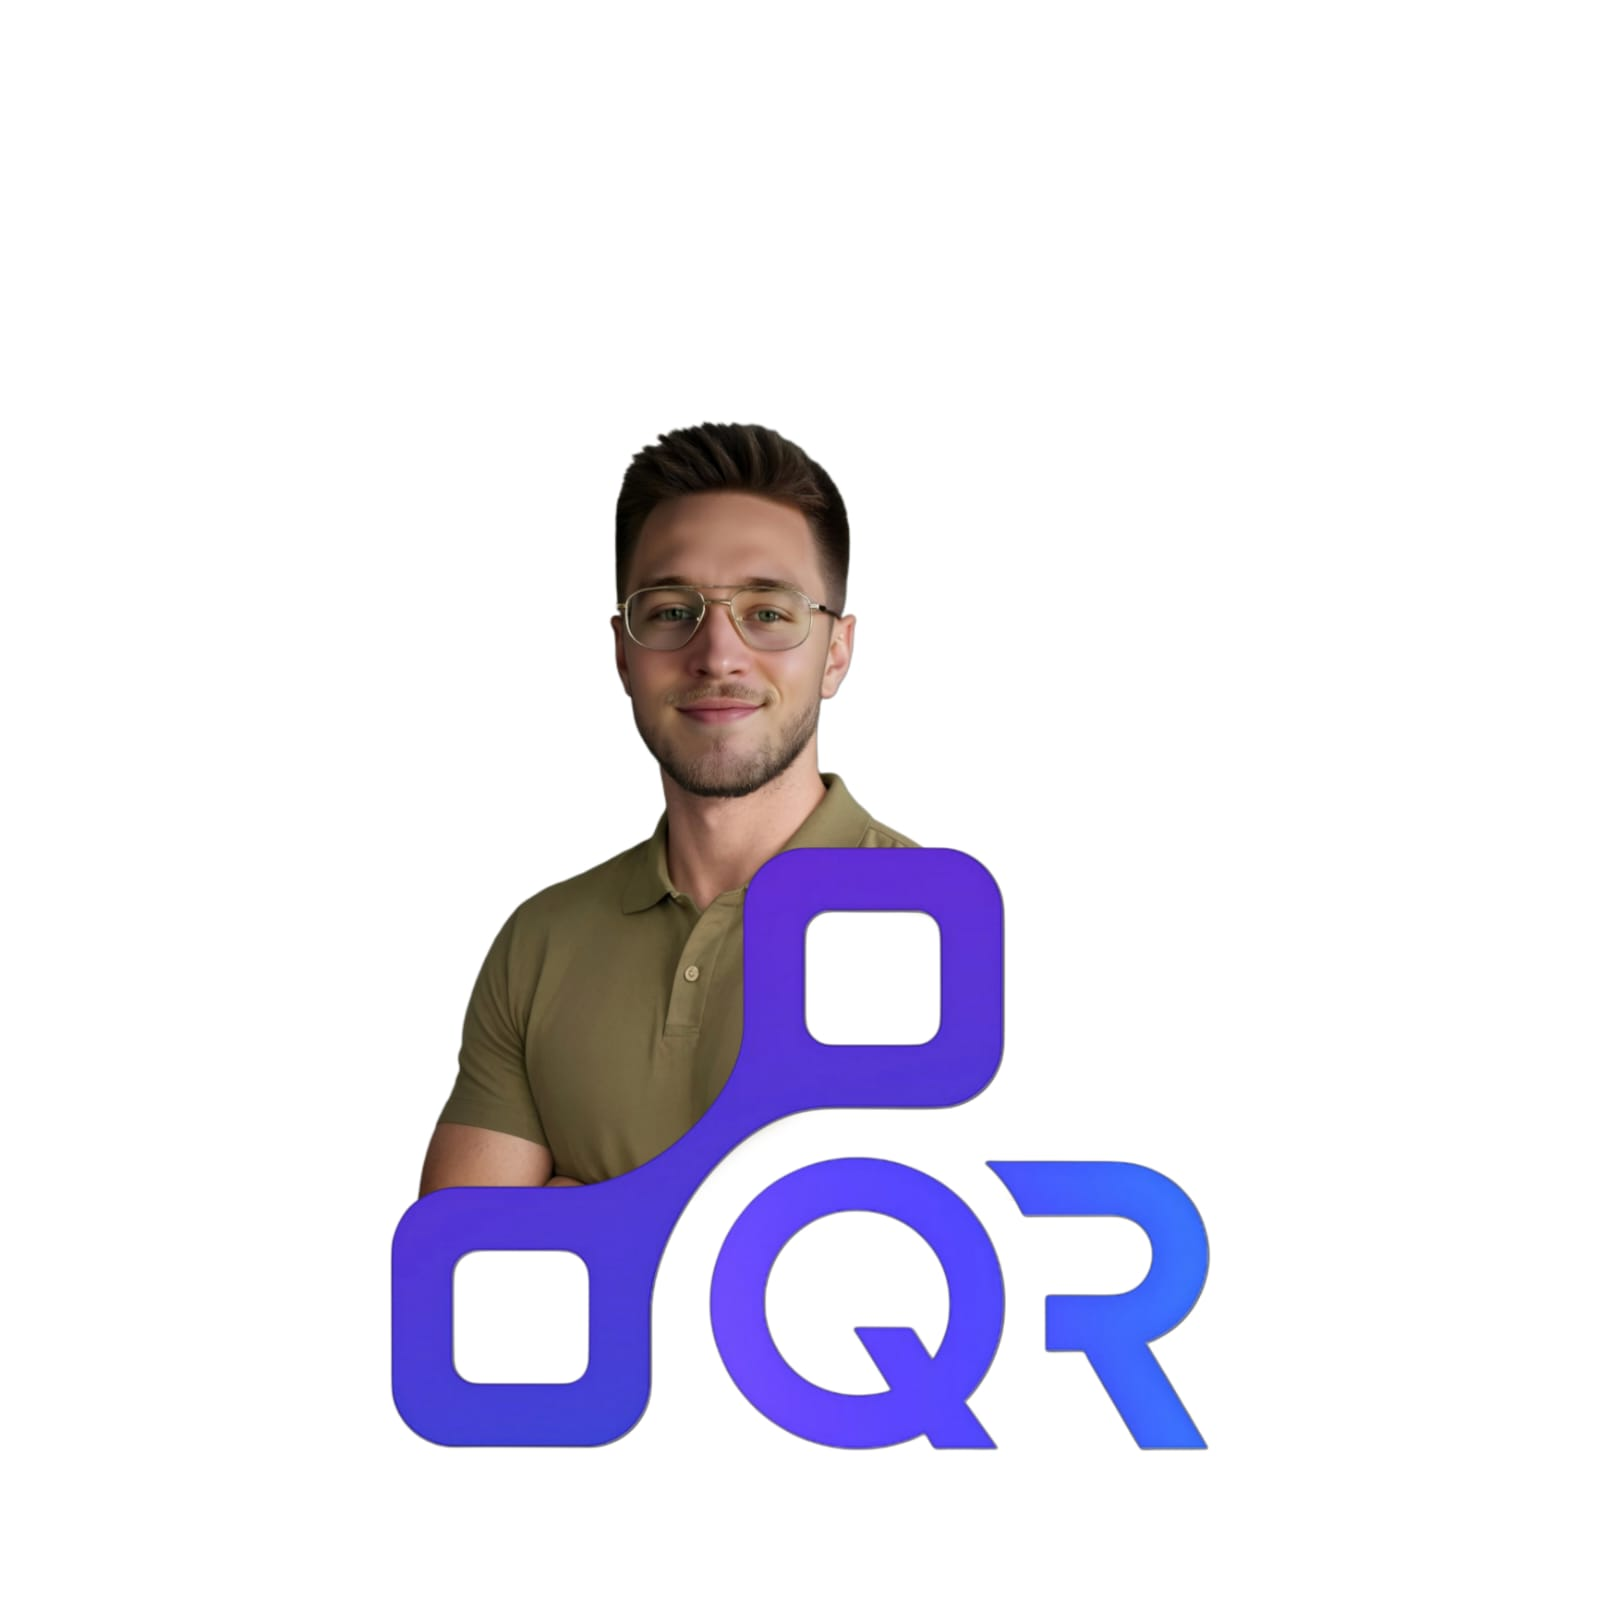
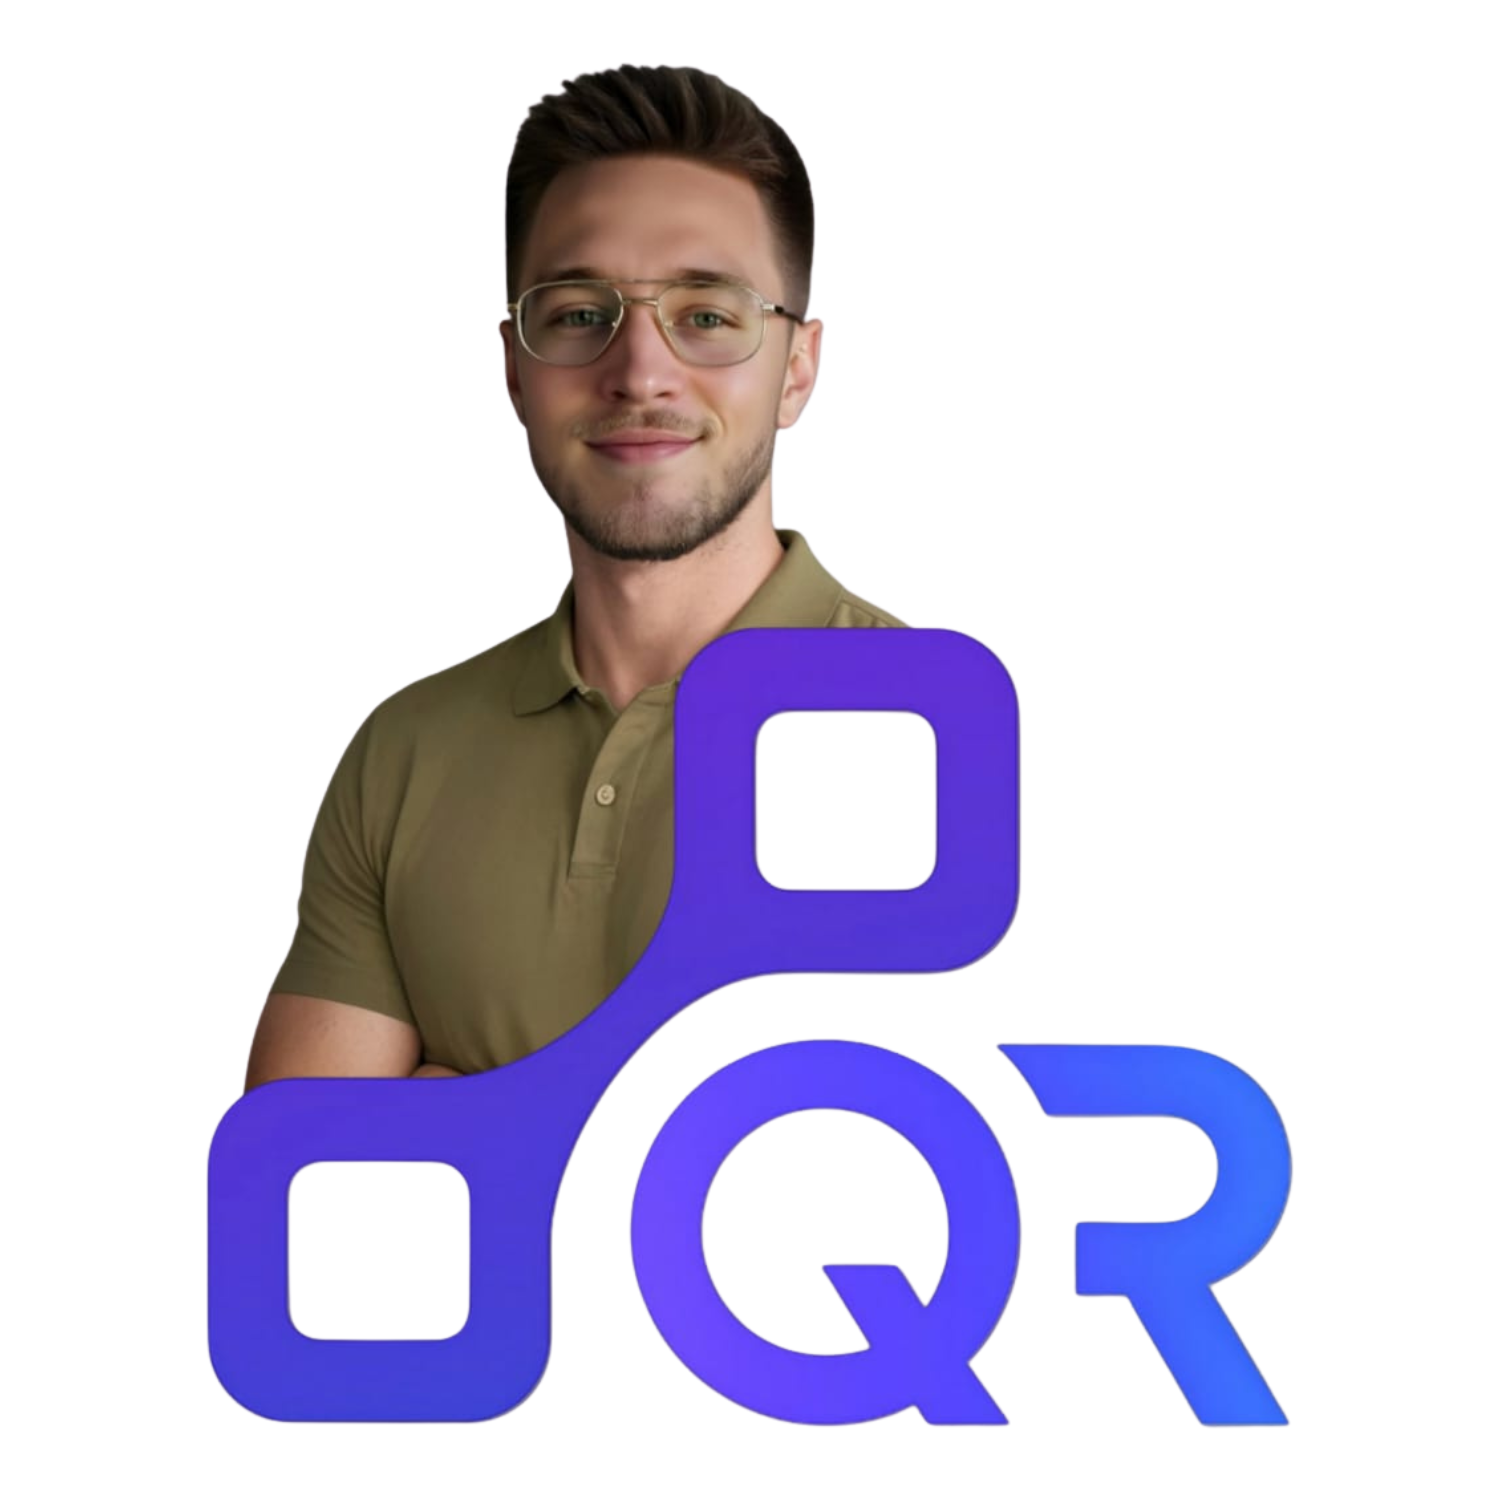
Update landing hero layout replace image and text
Replace hero image with uploaded design, place image on left and new headline on right, keeping existing descriptive text and CTA. Ensure heading sits above the description and aligns with new layout.

Changed region(s): [[0.1227, 0.0307, 0.8587, 0.9507]]

diff --git a/src/pages/Landing.tsx b/src/pages/Landing.tsx
@@ -82,26 +82,6 @@ const Landing = () => {
       {/* Hero Section */}
       <section className="relative z-10 pt-32 pb-20 px-4 sm:px-6 lg:px-8">
         <div className="max-w-7xl mx-auto">
-          <div className="text-center max-w-4xl mx-auto mb-12">
-            <motion.div initial={{
-            opacity: 0,
-            y: 20
-          }} animate={{
-            opacity: 1,
-            y: 0
-          }} transition={{
-            duration: 0.6
-          }}>
-              <h1 className="text-5xl sm:text-6xl lg:text-7xl font-bold mb-8 text-foreground">
-                Mehr Google-Bewertungen.<br />
-                <span className="bg-gradient-primary bg-clip-text text-transparent">
-                  Mehr Erfolg.
-                </span>
-              </h1>
-            </motion.div>
-          </div>
-
-          {/* Image and Text Section */}
           <div className="max-w-6xl mx-auto">
             <motion.div initial={{
             opacity: 0,
@@ -110,16 +90,21 @@ const Landing = () => {
             opacity: 1,
             y: 0
           }} transition={{
-            duration: 0.6,
-            delay: 0.2
-          }} className="grid md:grid-cols-2 gap-8 items-center">
+            duration: 0.6
+          }} className="grid md:grid-cols-2 gap-12 items-center">
               {/* Left: Image */}
-              <div className="flex justify-center md:justify-end">
-                <img src={heroPersonQr} alt="QRait Marketing System" className="w-full max-w-md h-auto rounded-lg" />
+              <div className="flex justify-center md:justify-start">
+                <img src={heroPersonQr} alt="QRait Marketing System" className="w-full h-auto" />
               </div>
 
-              {/* Right: Text and Button */}
+              {/* Right: Headline, Text and Button */}
               <div className="space-y-6">
+                <h1 className="text-5xl sm:text-6xl lg:text-7xl font-bold text-foreground">
+                  Mehr Google-Bewertungen.<br />
+                  <span className="bg-gradient-primary bg-clip-text text-transparent">
+                    Mehr Erfolg.
+                  </span>
+                </h1>
                 <p className="text-xl sm:text-2xl text-muted-foreground leading-relaxed">QRait ist ein automatisiertes Marketing-System für lokale Geschäfte, das Bewertungen, Kundenkontakte und Wiederbesucher erzeugt. Vollautomatisch für nachhaltiges Wachstum Ihres Unternehmens.</p>
                 <Button size="lg" onClick={() => navigate('/kontakt')} className="group">
                   Jetzt starten
